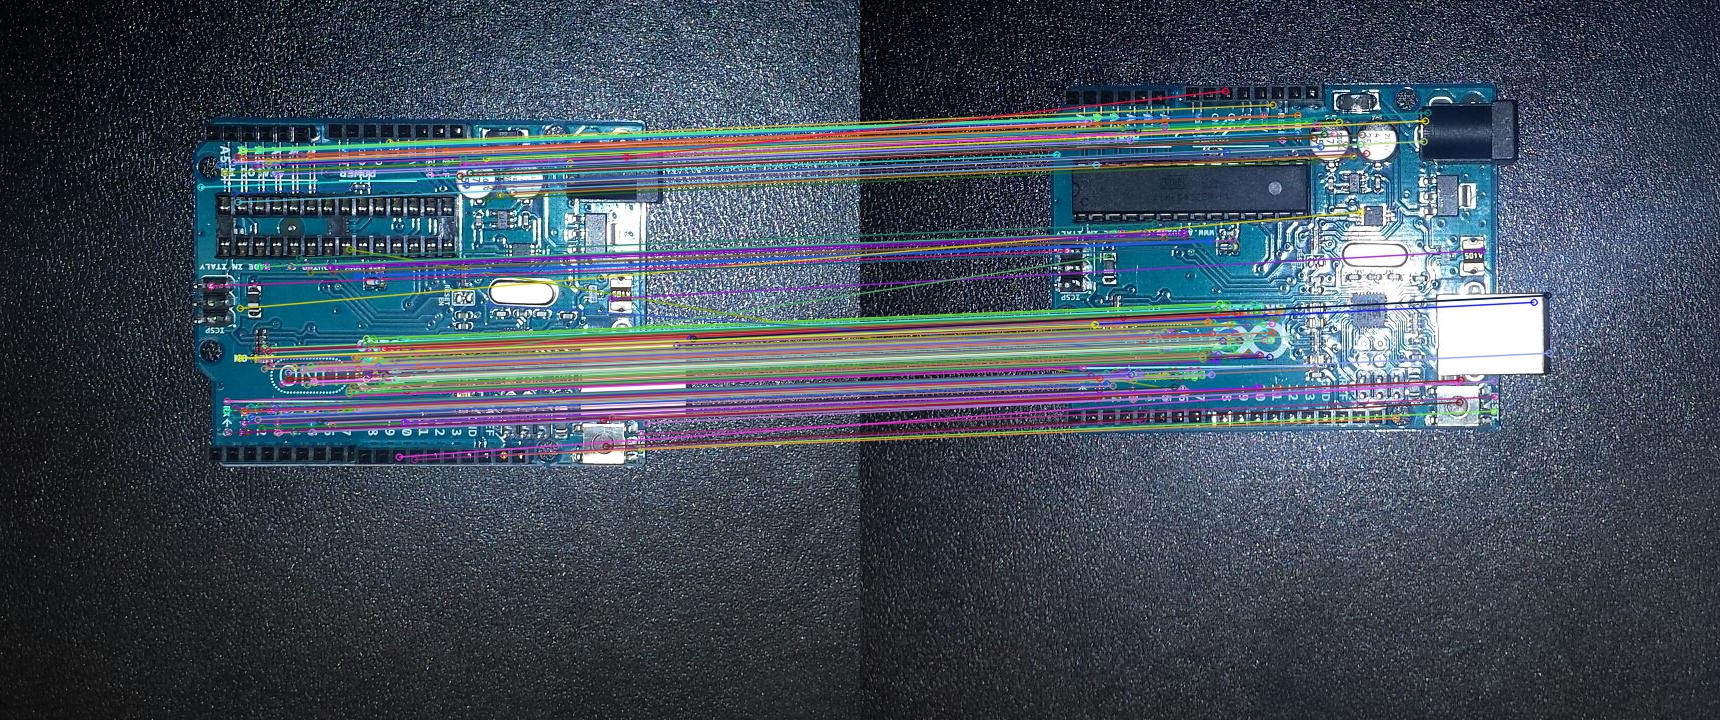
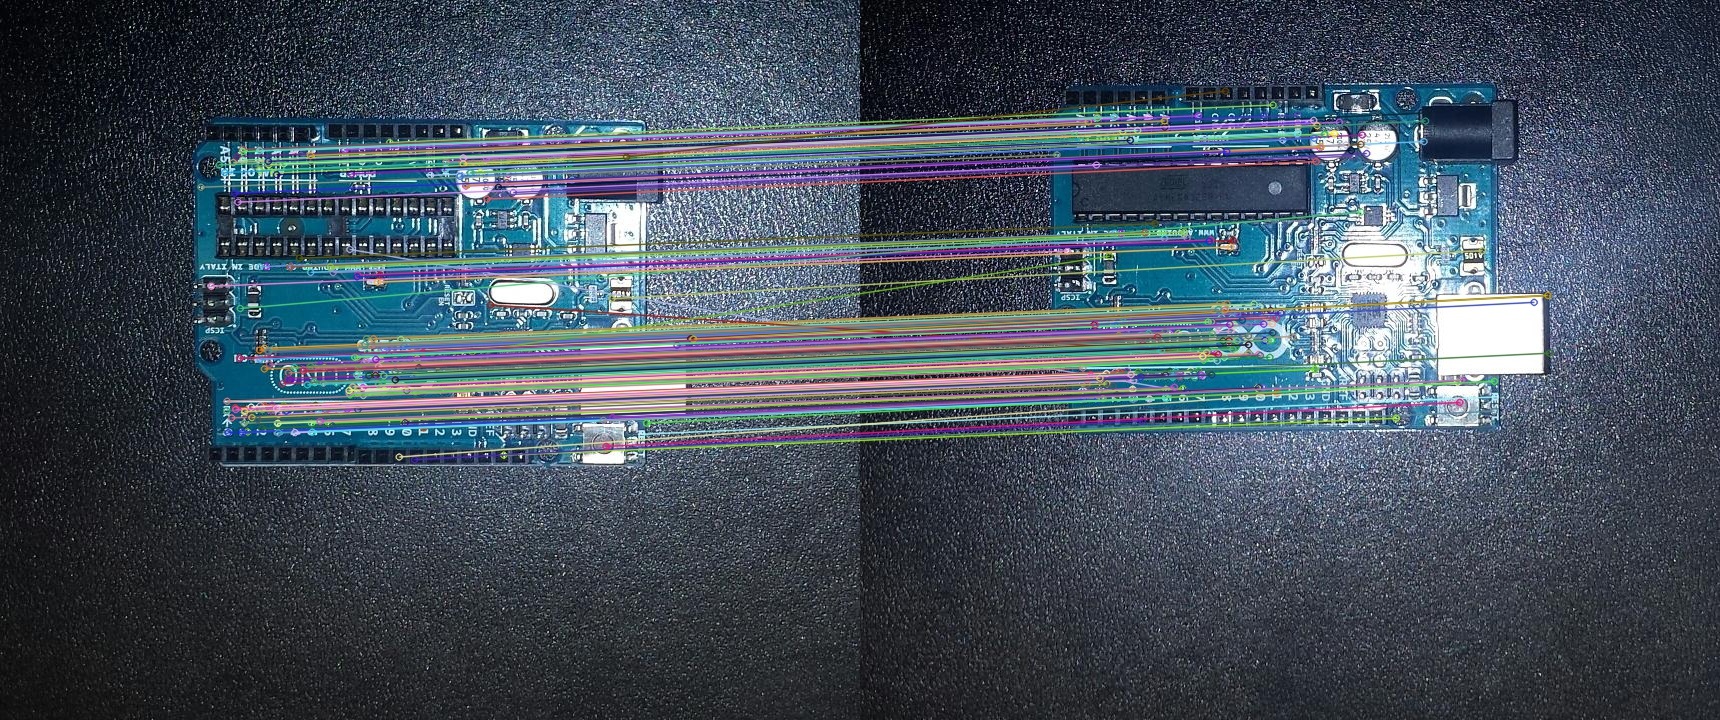
FLANN Matcher Test

diff --git a/bruteForceMatchingTest.py b/bruteForceMatchingTest.py
@@ -30,16 +30,49 @@ def bfmatcherknn(window, img1, kp1, desc1, img2, kp2, desc2, normType = cv2.NORM
     bf = cv2.BFMatcher(normType = normType)
     matches = bf.knnMatch(desc1, desc2, k = 2)
 
-    # Use Lowe's Ratio Test
+    # Use D.Lowe's Ratio Test
     if k == 2:
         bestMatches = []
         for match1, match2 in matches:
             if match1.distance < 0.75 * match2.distance:
-                bestMatches.append(match1)
+                bestMatches.append([match1])
         matches = bestMatches
 
     matchesImage = np.zeros(shape=(1,1))
-    matchesImage = cv2.drawMatches(img1 = img1, keypoints1 = kp1, img2 = img2, keypoints2 = kp2, matches1to2 = matches[:noMatches], outImg = matchesImage, flags=2)
+    matchesImage = cv2.drawMatchesKnn(img1 = img1, keypoints1 = kp1, img2 = img2, keypoints2 = kp2, matches1to2 = matches[:noMatches], outImg = matchesImage, flags=2)
+
+    cv2.imwrite(outputPath + window + fileExtension, matchesImage)
+    cv2.imshow(window, matchesImage)
+    cv2.waitKey(0)
+
+def flannmatcher(window, img1, kp1, desc1, img2, kp2, desc2, flannIndex = 0, trees = 5, checks = 50, noMatches = 250):
+    indexParams = dict(algorithm = flannIndex, trees = trees)
+    searchParams = dict(checks = 50)
+
+    flann = cv2.FlannBasedMatcher(indexParams, searchParams)
+
+    # Convert descriptors to CV_32F
+    desc1 = np.float32(desc1)
+    desc2 = np.float32(desc2)
+
+    matches = flann.knnMatch(desc1, desc2, k = 2)
+
+    # Use D.Lowe's Ratio Test
+    mask = []
+    matchIndex = 0
+    for match1, match2 in matches:
+        if matchIndex == noMatches:
+            break
+        matchIndex += 1
+        if match1.distance < 0.75 * match2.distance:
+            mask.append([1, 0])
+        else:
+            mask.append([0, 0])
+
+    drawParams = dict(matchColor = (0, 0, 255), singlePointColor = (255, 0, 0), matchesMask = mask, flags = 0)
+
+    matchesImage = np.zeros(shape=(1,1))
+    matchesImage = cv2.drawMatchesKnn(img1 = img1, keypoints1 = kp1, img2 = img2, keypoints2 = kp2, matches1to2 = matches[:noMatches], outImg = matchesImage, **drawParams)
 
     cv2.imwrite(outputPath + window + fileExtension, matchesImage)
     cv2.imshow(window, matchesImage)
@@ -55,35 +88,39 @@ akaze = cv2.AKAZE_create()
 kp1, desc1 = akaze.detectAndCompute(pcb1, None)
 kp2, desc2 = akaze.detectAndCompute(pcb2, None)
 
-### BFMatcher 250
-bfmatcher('BFMatcher_NORM_HAMMING_with_CrossCheck', pcb1, kp1, desc1, pcb2, kp2, desc2, cv2.NORM_HAMMING, True)
-bfmatcher('BFMatcher_NORM_HAMMING_without_CrossCheck', pcb1, kp1, desc1, pcb2, kp2, desc2, cv2.NORM_HAMMING, False)
-bfmatcher('BFMatcher_NORM_HAMMING2_with_CrossCheck', pcb1, kp1, desc1, pcb2, kp2, desc2, cv2.NORM_HAMMING2, True)
-bfmatcher('BFMatcher_NORM_HAMMING2_without_CrossCheck', pcb1, kp1, desc1, pcb2, kp2, desc2, cv2.NORM_HAMMING2, False)
-bfmatcher('BFMatcher_NORM_L1_with_CrossCheck', pcb1, kp1, desc1, pcb2, kp2, desc2, cv2.NORM_L1, True)
-bfmatcher('BFMatcher_NORM_L1_without_CrossCheck', pcb1, kp1, desc1, pcb2, kp2, desc2, cv2.NORM_L1, False)
-bfmatcher('BFMatcher_NORM_L2_with_CrossCheck', pcb1, kp1, desc1, pcb2, kp2, desc2, cv2.NORM_L2, True)
-bfmatcher('BFMatcher_NORM_L2_without_CrossCheck', pcb1, kp1, desc1, pcb2, kp2, desc2, cv2.NORM_L2, False)
+# ### BFMatcher 250
+# bfmatcher('BFMatcher_NORM_HAMMING_with_CrossCheck', pcb1, kp1, desc1, pcb2, kp2, desc2, cv2.NORM_HAMMING, True)
+# bfmatcher('BFMatcher_NORM_HAMMING_without_CrossCheck', pcb1, kp1, desc1, pcb2, kp2, desc2, cv2.NORM_HAMMING, False)
+# bfmatcher('BFMatcher_NORM_HAMMING2_with_CrossCheck', pcb1, kp1, desc1, pcb2, kp2, desc2, cv2.NORM_HAMMING2, True)
+# bfmatcher('BFMatcher_NORM_HAMMING2_without_CrossCheck', pcb1, kp1, desc1, pcb2, kp2, desc2, cv2.NORM_HAMMING2, False)
+# bfmatcher('BFMatcher_NORM_L1_with_CrossCheck', pcb1, kp1, desc1, pcb2, kp2, desc2, cv2.NORM_L1, True)
+# bfmatcher('BFMatcher_NORM_L1_without_CrossCheck', pcb1, kp1, desc1, pcb2, kp2, desc2, cv2.NORM_L1, False)
+# bfmatcher('BFMatcher_NORM_L2_with_CrossCheck', pcb1, kp1, desc1, pcb2, kp2, desc2, cv2.NORM_L2, True)
+# bfmatcher('BFMatcher_NORM_L2_without_CrossCheck', pcb1, kp1, desc1, pcb2, kp2, desc2, cv2.NORM_L2, False)
+#
+# ### BFMatcher ALL
+# bfmatcher('ALL_BFMatcher_NORM_HAMMING_with_CrossCheck', pcb1, kp1, desc1, pcb2, kp2, desc2, cv2.NORM_HAMMING, True, noMatches = None)
+# bfmatcher('ALL_BFMatcher_NORM_HAMMING_without_CrossCheck', pcb1, kp1, desc1, pcb2, kp2, desc2, cv2.NORM_HAMMING, False, noMatches = None)
+# bfmatcher('ALL_BFMatcher_NORM_HAMMING2_with_CrossCheck', pcb1, kp1, desc1, pcb2, kp2, desc2, cv2.NORM_HAMMING2, True, noMatches = None)
+# bfmatcher('ALL_BFMatcher_NORM_HAMMING2_without_CrossCheck', pcb1, kp1, desc1, pcb2, kp2, desc2, cv2.NORM_HAMMING2, False, noMatches = None)
+# bfmatcher('ALL_BFMatcher_NORM_L1_with_CrossCheck', pcb1, kp1, desc1, pcb2, kp2, desc2, cv2.NORM_L1, True, noMatches = None)
+# bfmatcher('ALL_BFMatcher_NORM_L1_without_CrossCheck', pcb1, kp1, desc1, pcb2, kp2, desc2, cv2.NORM_L1, False, noMatches = None)
+# bfmatcher('ALL_BFMatcher_NORM_L2_with_CrossCheck', pcb1, kp1, desc1, pcb2, kp2, desc2, cv2.NORM_L2, True, noMatches = None)
+# bfmatcher('ALL_BFMatcher_NORM_L2_without_CrossCheck', pcb1, kp1, desc1, pcb2, kp2, desc2, cv2.NORM_L2, False, noMatches = None)
 
-### BFMatcher ALL
-bfmatcher('ALL_BFMatcher_NORM_HAMMING_with_CrossCheck', pcb1, kp1, desc1, pcb2, kp2, desc2, cv2.NORM_HAMMING, True, noMatches = None)
-bfmatcher('ALL_BFMatcher_NORM_HAMMING_without_CrossCheck', pcb1, kp1, desc1, pcb2, kp2, desc2, cv2.NORM_HAMMING, False, noMatches = None)
-bfmatcher('ALL_BFMatcher_NORM_HAMMING2_with_CrossCheck', pcb1, kp1, desc1, pcb2, kp2, desc2, cv2.NORM_HAMMING2, True, noMatches = None)
-bfmatcher('ALL_BFMatcher_NORM_HAMMING2_without_CrossCheck', pcb1, kp1, desc1, pcb2, kp2, desc2, cv2.NORM_HAMMING2, False, noMatches = None)
-bfmatcher('ALL_BFMatcher_NORM_L1_with_CrossCheck', pcb1, kp1, desc1, pcb2, kp2, desc2, cv2.NORM_L1, True, noMatches = None)
-bfmatcher('ALL_BFMatcher_NORM_L1_without_CrossCheck', pcb1, kp1, desc1, pcb2, kp2, desc2, cv2.NORM_L1, False, noMatches = None)
-bfmatcher('ALL_BFMatcher_NORM_L2_with_CrossCheck', pcb1, kp1, desc1, pcb2, kp2, desc2, cv2.NORM_L2, True, noMatches = None)
-bfmatcher('ALL_BFMatcher_NORM_L2_without_CrossCheck', pcb1, kp1, desc1, pcb2, kp2, desc2, cv2.NORM_L2, False, noMatches = None)
+
+# ### BFMatcher with knnMatch 250
+# bfmatcherknn('BFMatcher_NORM_HAMMING_with_RatioTest', pcb1, kp1, desc1, pcb2, kp2, desc2, cv2.NORM_HAMMING)
+# bfmatcherknn('BFMatcher_NORM_HAMMING2_with_RatioTest', pcb1, kp1, desc1, pcb2, kp2, desc2, cv2.NORM_HAMMING2)
+# bfmatcherknn('BFMatcher_NORM_L1_with_RatioTest', pcb1, kp1, desc1, pcb2, kp2, desc2, cv2.NORM_L1)
+# bfmatcherknn('BFMatcher_NORM_L2_with_RatioTest', pcb1, kp1, desc1, pcb2, kp2, desc2, cv2.NORM_L2)
+#
+# ### BFMatcher with knnMatch ALL
+# bfmatcherknn('ALL_BFMatcher_NORM_HAMMING_with_RatioTest', pcb1, kp1, desc1, pcb2, kp2, desc2, cv2.NORM_HAMMING, noMatches = None)
+# bfmatcherknn('ALL_BFMatcher_NORM_HAMMING2_with_RatioTest', pcb1, kp1, desc1, pcb2, kp2, desc2, cv2.NORM_HAMMING2, noMatches = None)
+# bfmatcherknn('ALL_BFMatcher_NORM_L1_with_RatioTest', pcb1, kp1, desc1, pcb2, kp2, desc2, cv2.NORM_L1, noMatches = None)
+# bfmatcherknn('ALL_BFMatcher_NORM_L2_with_RatioTest', pcb1, kp1, desc1, pcb2, kp2, desc2, cv2.NORM_L2, noMatches = None)
 
 
-### BFMatcher with knnMatch 250
-bfmatcherknn('BFMatcher_NORM_HAMMING_with_RatioTest', pcb1, kp1, desc1, pcb2, kp2, desc2, cv2.NORM_HAMMING)
-bfmatcherknn('BFMatcher_NORM_HAMMING2_with_RatioTest', pcb1, kp1, desc1, pcb2, kp2, desc2, cv2.NORM_HAMMING2)
-bfmatcherknn('BFMatcher_NORM_L1_with_RatioTest', pcb1, kp1, desc1, pcb2, kp2, desc2, cv2.NORM_L1)
-bfmatcherknn('BFMatcher_NORM_L2_with_RatioTest', pcb1, kp1, desc1, pcb2, kp2, desc2, cv2.NORM_L2)
-
-### BFMatcher with knnMatch ALL
-bfmatcherknn('ALL_BFMatcher_NORM_HAMMING_with_RatioTest', pcb1, kp1, desc1, pcb2, kp2, desc2, cv2.NORM_HAMMING, noMatches = None)
-bfmatcherknn('ALL_BFMatcher_NORM_HAMMING2_with_RatioTest', pcb1, kp1, desc1, pcb2, kp2, desc2, cv2.NORM_HAMMING2, noMatches = None)
-bfmatcherknn('ALL_BFMatcher_NORM_L1_with_RatioTest', pcb1, kp1, desc1, pcb2, kp2, desc2, cv2.NORM_L1, noMatches = None)
-bfmatcherknn('ALL_BFMatcher_NORM_L2_with_RatioTest', pcb1, kp1, desc1, pcb2, kp2, desc2, cv2.NORM_L2, noMatches = None)
+### FLANNMatcher ALL
+flannmatcher('FLANNMatcher', pcb1, kp1, desc1, pcb2, kp2, desc2, checks = 50, noMatches = None)
